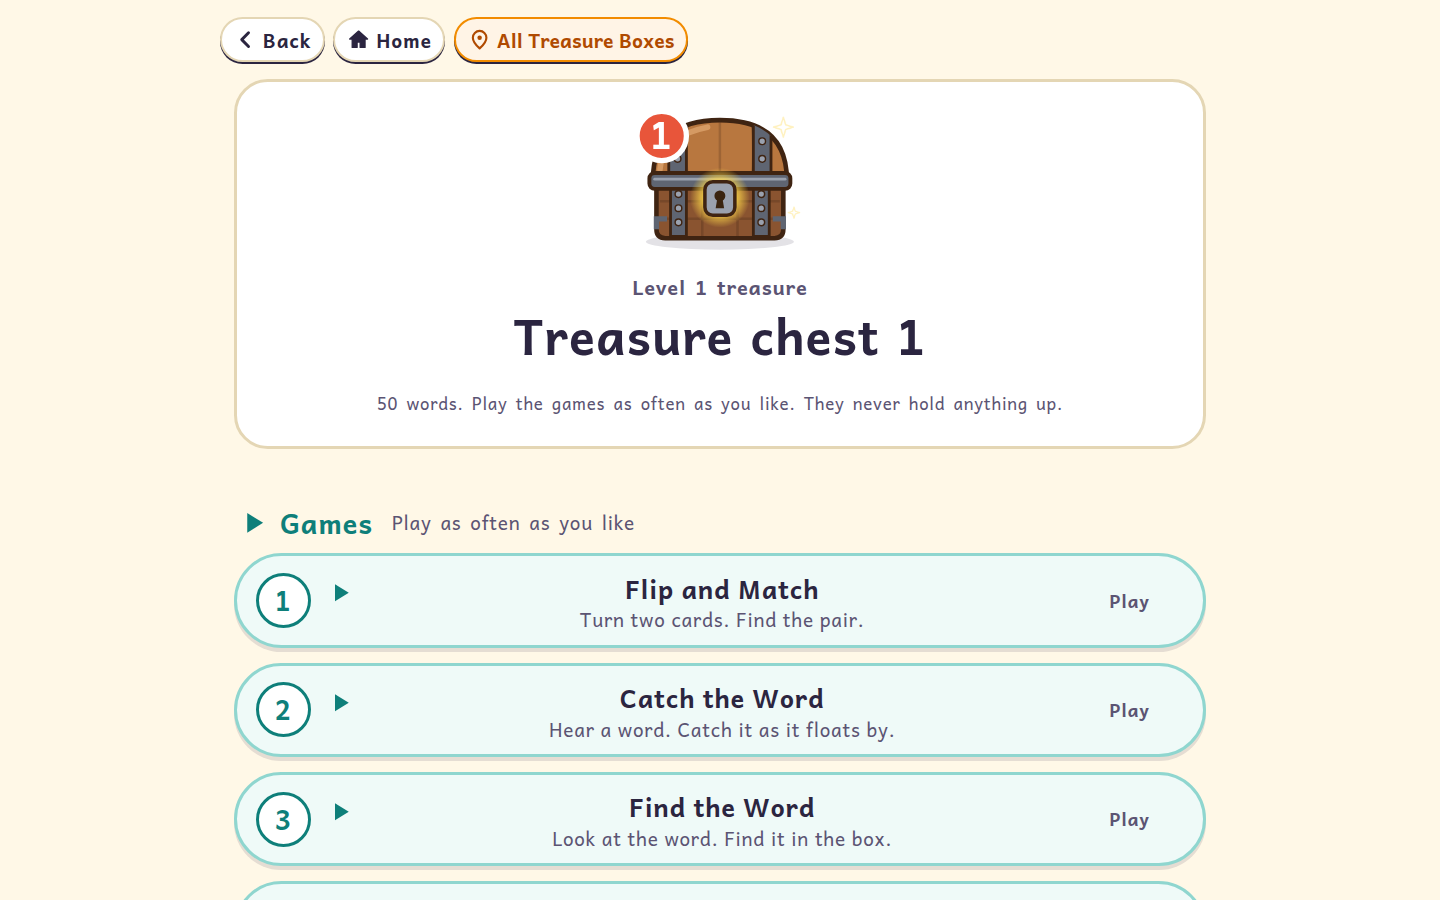
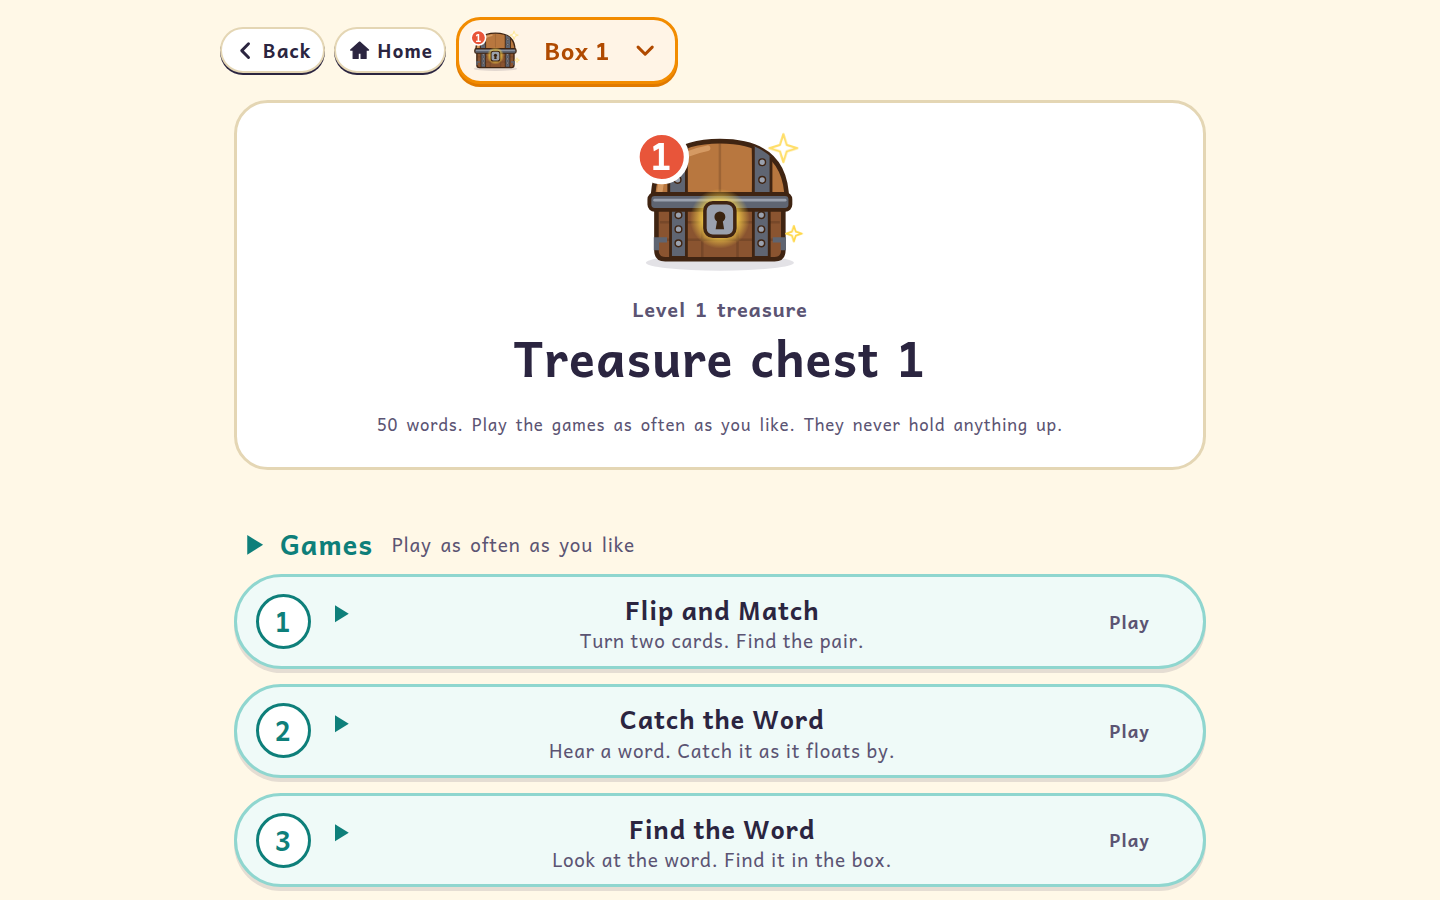
Replace All Treasure Boxes with a box menu.
The menu sits with Back and Home, lists every box, and opens that box. Back still returns to the chooser.

diff --git a/js/chest.js b/js/chest.js
@@ -64,12 +64,103 @@
     return { btn, list, stop };
   }
 
-  /* Back and Home stay. All Treasure Boxes sits with them and returns to the box chooser. */
-  function allBoxesButton() {
-    return h('button', { class: 'back homebtn boxesbtn', type: 'button', 'aria-label': 'All Treasure Boxes', onclick: () => { Snd.stop(); location.hash = '#/practice/skills/sight'; } }, icon('map'), h('span', null, 'All Treasure Boxes'));
+  /* Back returns to the chooser. The box menu sits with Back and Home and jumps straight to a box. */
+  const CHOOSER = '#/practice/skills/sight';
+  function boxPlayed(n) {
+    const st = IR.S()['chest' + n];
+    return !!(st && st.plays && Object.keys(st.plays).some((id) => st.plays[id] > 0));
   }
-  function chestNav(up) {
-    return h('div', { class: 'pagenav' }, IR.ui.backButton(up), IR.ui.homeButton(), allBoxesButton());
+  function boxMenu() {
+    const listId = 'boxmenu-' + N;
+    let open = false;
+    const btn = h('button', { class: 'boxdrop-btn', type: 'button', 'aria-haspopup': 'menu', 'aria-expanded': 'false', 'aria-controls': listId, 'aria-label': 'Box ' + N + '. Choose a treasure box.' },
+      h('span', { class: 'boxdrop-ico', html: IR.chestSVG(N, 'pick'), 'aria-hidden': 'true' }),
+      h('span', { class: 'boxdrop-name' }, 'Box ' + N),
+      h('span', { class: 'boxdrop-caret', 'aria-hidden': 'true' }, icon('next')));
+    const opts = [1, 2, 3, 4].map((n) => {
+      const words = (D['box' + n] || []).length;
+      const played = boxPlayed(n);
+      const opt = h('button', { class: 'boxdrop-opt' + (n === N ? ' is-current' : '') + (played ? ' played' : ''), type: 'button', role: 'menuitem', 'data-n': String(n), 'aria-current': n === N ? 'true' : 'false', 'aria-label': 'Box ' + n + '. ' + words + ' words. ' + (played ? 'Check.' : 'Open.') + (n === N ? ' Current.' : '') },
+        h('span', { class: 'boxdrop-ico', html: IR.chestSVG(n, 'opt'), 'aria-hidden': 'true' }),
+        h('span', { class: 'boxdrop-copy' }, h('span', { class: 'boxdrop-name' }, 'Box ' + n), h('span', { class: 'boxdrop-count' }, words + ' words')),
+        h('span', { class: 'boxdrop-mark' + (played ? ' is-check' : ' is-open'), 'aria-hidden': 'true' }, icon('check')));
+      opt.addEventListener('click', () => {
+        Snd.stop();
+        const href = '#/chest' + n;
+        if (location.hash === href) { setOpen(false); btn.focus(); return; }
+        location.hash = href;
+      });
+      return opt;
+    });
+    const list = h('div', { id: listId, class: 'boxdrop-list', role: 'menu', 'aria-label': 'Treasure boxes', hidden: true }, ...opts);
+    const wrap = h('div', { class: 'boxdrop' }, btn, list);
+    const buttons = () => [...list.querySelectorAll('[role="menuitem"]')];
+    function place() {
+      const r = btn.getBoundingClientRect();
+      const width = Math.min(360, window.innerWidth - 16);
+      let left = Math.max(8, Math.min(r.left, window.innerWidth - width - 8));
+      list.style.position = 'fixed';
+      list.style.width = width + 'px';
+      list.style.left = left + 'px';
+      list.style.right = 'auto';
+      const est = 300;
+      if (window.innerHeight - r.bottom < est && r.top > window.innerHeight - r.bottom) {
+        list.style.top = 'auto';
+        list.style.bottom = (window.innerHeight - r.top + 8) + 'px';
+      } else {
+        list.style.bottom = 'auto';
+        list.style.top = (r.bottom + 8) + 'px';
+      }
+    }
+    function setOpen(on) {
+      if (on === open) return;
+      open = on;
+      btn.setAttribute('aria-expanded', on ? 'true' : 'false');
+      list.hidden = !on;
+      wrap.classList.toggle('is-open', on);
+      if (on) {
+        place();
+        const cur = list.querySelector('[aria-current="true"]') || buttons()[0];
+        if (cur) cur.focus({ preventScroll: true });
+        requestAnimationFrame(place);
+      }
+    }
+    btn.addEventListener('click', () => setOpen(!open));
+    btn.addEventListener('keydown', (e) => {
+      if (e.key === 'ArrowDown' || e.key === 'ArrowUp') { e.preventDefault(); setOpen(true); }
+    });
+    list.addEventListener('keydown', (e) => {
+      const items = buttons();
+      const i = items.indexOf(document.activeElement);
+      if (e.key === 'Escape') { e.preventDefault(); e.stopPropagation(); setOpen(false); btn.focus(); }
+      else if (e.key === 'ArrowDown') { e.preventDefault(); items[(i + 1) % items.length].focus(); }
+      else if (e.key === 'ArrowUp') { e.preventDefault(); items[(i - 1 + items.length) % items.length].focus(); }
+      else if (e.key === 'Home') { e.preventDefault(); items[0].focus(); }
+      else if (e.key === 'End') { e.preventDefault(); items[items.length - 1].focus(); }
+      else if (e.key === 'Tab') setOpen(false);
+    });
+    const onDoc = (e) => { if (open && !wrap.contains(e.target)) setOpen(false); };
+    const onKey = (e) => { if (open && e.key === 'Escape') { setOpen(false); btn.focus(); } };
+    const onResize = () => { if (open) place(); };
+    document.addEventListener('pointerdown', onDoc);
+    document.addEventListener('keydown', onKey);
+    window.addEventListener('resize', onResize);
+    document.addEventListener('scroll', onResize, true);
+    const mo = new MutationObserver(() => {
+      if (wrap.isConnected) return;
+      document.removeEventListener('pointerdown', onDoc);
+      document.removeEventListener('keydown', onKey);
+      window.removeEventListener('resize', onResize);
+      document.removeEventListener('scroll', onResize, true);
+      mo.disconnect();
+    });
+    mo.observe(document.body, { childList: true, subtree: true });
+    return wrap;
+  }
+  function chestNav() {
+    const back = IR.ui.backButton(CHOOSER);
+    back.setAttribute('aria-label', 'Back to the treasure boxes');
+    return h('div', { class: 'pagenav' }, back, IR.ui.homeButton(), boxMenu());
   }
   /* shared screen frame: X (back to chest), title, Back/Next footer */
   function frame(app, { title, backHref, nextHref, backLabel, nextLabel, body, cls }) {
@@ -78,7 +169,7 @@
       h('button', { class: 'btn big next', type: 'button', 'aria-label': nextLabel || 'Next', onclick: () => { Snd.stop(); location.hash = nextHref; } }, 'Next', icon('next')));
     const countEl = h('p', { class: 'qcount', 'aria-live': 'polite' }, '');
     const screen = h('div', { class: 'screen lessonscreen chestscreen ' + (cls || ''), style: '--c:#A9693B' },
-      h('header', { class: 'lesson-top' }, chestNav(P), h('h2', { class: 'acttitle chest-title' }, h('span', { class: 'chestmini', html: IR.chestSVG(N) }), title)), h('div', { class: 'stage' }, body), countEl, nav);
+      h('header', { class: 'lesson-top' }, chestNav(), h('h2', { class: 'acttitle chest-title' }, h('span', { class: 'chestmini', html: IR.chestSVG(N, 'mini') }), title)), h('div', { class: 'stage' }, body), countEl, nav);
     app.append(screen);
     screen._qcount = countEl;
   }
@@ -126,9 +217,9 @@
       h('span', { class: 'stxt' }, h('b', null, g.title), h('small', null, g.blurb)), h('span', { class: 'sside' }, h('span', { class: 'slabel' }, 'Play')))));
     const chips = h('div', { class: 'wordchips', 'aria-label': 'The ' + WORDS.length + ' words' }, ...WORDS.map((w) => { const b = wordCard(w, 'mini'); b.addEventListener('click', () => IR.sayWord(w)); return b; }));
     app.append(h('div', { class: 'screen trailscreen unitpage chestmenu' },
-      h('header', { class: 'top2' }, chestNav('#/home')),
+      h('header', { class: 'top2' }, chestNav()),
       h('div', { class: 'unitwrap' },
-        h('section', { class: 'unithero' }, h('div', { class: 'chestbig', html: IR.chestSVG(N) }), h('div', { class: 'ut-title' }, h('span', { class: 'ut-isle' }, 'Level ' + N + ' treasure'), h('h1', null, 'Treasure chest ' + N)),
+        h('section', { class: 'unithero' }, h('div', { class: 'chestbig', html: IR.chestSVG(N, 'hero') }), h('div', { class: 'ut-title' }, h('span', { class: 'ut-isle' }, 'Level ' + N + ' treasure'), h('h1', null, 'Treasure chest ' + N)),
           h('p', { class: 'small' }, WORDS.length + ' words. Play the games as often as you like. They never hold anything up.')),
         h('section', { class: 'ugrp activities' }, h('h2', { class: 'ugrp-t' }, icon('play'), 'Games', h('small', null, 'Play as often as you like')), h('ol', { class: 'stoplist' }, ...cards)),
         h('section', { class: 'ugrp' }, h('h2', { class: 'ugrp-t' }, 'The words', h('small', null, 'A star means a heart word you learned. Tap a word to hear it.')), chips)),

diff --git a/styles.css b/styles.css
@@ -2856,16 +2856,35 @@ button,
   .boxgrid .boxcount{font-size:.98rem!important}
   .boxgrid.chestlist .gchest.boxcard{min-height:236px!important;padding:.7rem .4rem .8rem!important}
 }
-/* All Treasure Boxes sits with Back and Home on a chest and on every game inside it. */
+/* Box menu sits with Back and Home on a chest and on every game inside it. */
 .chestscreen .lesson-top,.chestmenu .top2{flex-wrap:wrap;align-items:center;gap:.45rem .7rem;padding-right:.8rem;background:var(--cream);position:sticky;top:0;z-index:80}
-.chestscreen .pagenav,.chestmenu .pagenav{display:flex;flex-wrap:wrap;align-items:center;gap:.4rem;max-width:100%}
+.chestscreen .pagenav,.chestmenu .pagenav{display:flex;flex-wrap:wrap;align-items:center;gap:.45rem;max-width:100%}
 .chestscreen .pagenav .homebtn,.chestmenu .pagenav .homebtn{margin-right:0!important}
-.boxesbtn{color:#B04A00!important;background:#FFF4E6!important;border-color:#F28C00!important;letter-spacing:0;word-spacing:0}
-.boxesbtn span{white-space:nowrap}
+.boxdrop{position:relative;flex:none}
+.boxdrop-btn{display:inline-flex;align-items:center;justify-content:center;gap:.45rem;min-height:3.15rem;min-width:10.5rem;padding:.3rem .85rem .3rem .45rem;border:3px solid #F28C00;border-radius:1.15rem;background:#FFF4E6;color:#B04A00;font-family:Andika,sans-serif;font-weight:700;font-size:1.15rem;letter-spacing:0;word-spacing:0;box-shadow:0 3px 0 #E07A00;cursor:pointer}
+.boxdrop-btn .boxdrop-name{flex:1;text-align:center;line-height:1}
+.boxdrop-ico{display:inline-flex;align-items:center;justify-content:center;width:2.5rem;height:2.05rem;flex:none}
+.boxdrop-ico svg{width:100%;height:100%;display:block}
+.boxdrop-caret{display:inline-flex;flex:none}
+.boxdrop-caret .ico{width:1.15rem;height:1.15rem;transform:rotate(90deg)}
+.boxdrop.is-open .boxdrop-caret .ico{transform:rotate(-90deg)}
+.boxdrop-list{z-index:95;margin:0;padding:.45rem;list-style:none;background:#FFFDF8;border:4px solid #F28C00;border-radius:1.2rem;box-shadow:0 10px 28px rgba(60,40,20,.2);box-sizing:border-box}
+.boxdrop-list:not([hidden]){display:flex;flex-direction:column;gap:.35rem}
+.boxdrop-opt{display:flex;align-items:center;gap:.65rem;width:100%;min-height:4.6rem;padding:.4rem .65rem;border:3px solid transparent;border-radius:1rem;background:#fff;color:#2B2540;font-family:Andika,sans-serif;font-weight:700;letter-spacing:0;word-spacing:0;cursor:pointer;text-align:center}
+.boxdrop-opt.is-current{border-color:#F28C00;background:#FFF4E6}
+.boxdrop-copy{display:flex;flex-direction:column;align-items:center;justify-content:center;flex:1;min-width:0;gap:.12rem}
+.boxdrop-opt .boxdrop-name{font-size:1.3rem;line-height:1.1}
+.boxdrop-count{font-size:1.02rem;line-height:1.15;color:#C45C00;font-weight:700}
+.boxdrop-mark{display:flex;align-items:center;justify-content:center;width:2.15rem;height:2.15rem;border-radius:50%;border:3px solid #F28C00;background:#fff;color:#F28C00;flex:none}
+.boxdrop-mark .ico{width:1.15rem;height:1.15rem}
+.boxdrop-opt.played .boxdrop-mark.is-check{background:#2E9E6B;border-color:#1E7A4E;color:#fff}
+.boxdrop-opt .boxdrop-ico{width:3.3rem;height:2.7rem}
 .chestscreen .complete,.chestdone{z-index:60}
 .chestdone{padding-top:5.4rem}
 @media (max-width:700px){
   .chestscreen .lesson-top .acttitle{flex:1 1 100%}
-  .boxesbtn{font-size:.86rem!important;padding:.12rem .5rem!important}
-  .chestdone{padding-top:7.2rem}
+  .chestscreen .pagenav,.chestmenu .pagenav{width:100%}
+  .boxdrop{flex:1 1 100%}
+  .boxdrop-btn{width:100%;min-height:3.5rem;font-size:1.2rem}
+  .chestdone{padding-top:8.4rem}
 }

diff --git a/js/islands.js b/js/islands.js
@@ -52,8 +52,8 @@
   IR.islandSVG = islandSVG;
   /* ONE treasure-chest design for all four chests: a wooden box with a curved lid, iron bands, studs, a glowing keyhole and small sparkles.
      Only the big number badge (1-4) tells them apart. */
-  function chestSVG(n) {
-    n = [1, 2, 3, 4].includes(+n) ? +n : 1; const k = 'ch_' + n;
+  function chestSVG(n, salt) {
+    n = [1, 2, 3, 4].includes(+n) ? +n : 1; const k = 'ch_' + n + (salt ? '_' + salt : '');
     const body = '#8A5430', lid = '#B8773F', hi = '#D9A06A', iron = '#5F6572', ironHi = '#9AA1AE', line = '#3F2412';
     const stud = (x, y) => `<circle cx="${x}" cy="${y}" r="1.9" fill="${ironHi}" stroke="${line}" stroke-width=".8"/>`;
     return `<svg viewBox="0 0 100 84" class="chestsvg chest-n${n}" data-chest="${n}" aria-hidden="true"><defs>

diff --git a/sw.js b/sw.js
@@ -1,7 +1,7 @@
 /* Island Readers sample service worker.
    Code (HTML/JS/CSS/data) is network-first so a new version always wins; the cache is only an offline fallback.
    Media (images/audio/video) is cache-first. Install never fails because of one file. */
-const CACHE = 'ir-20261120a';
+const CACHE = 'ir-20261120b';
 const ASSETS = [
  "./",
  "./index.html",
